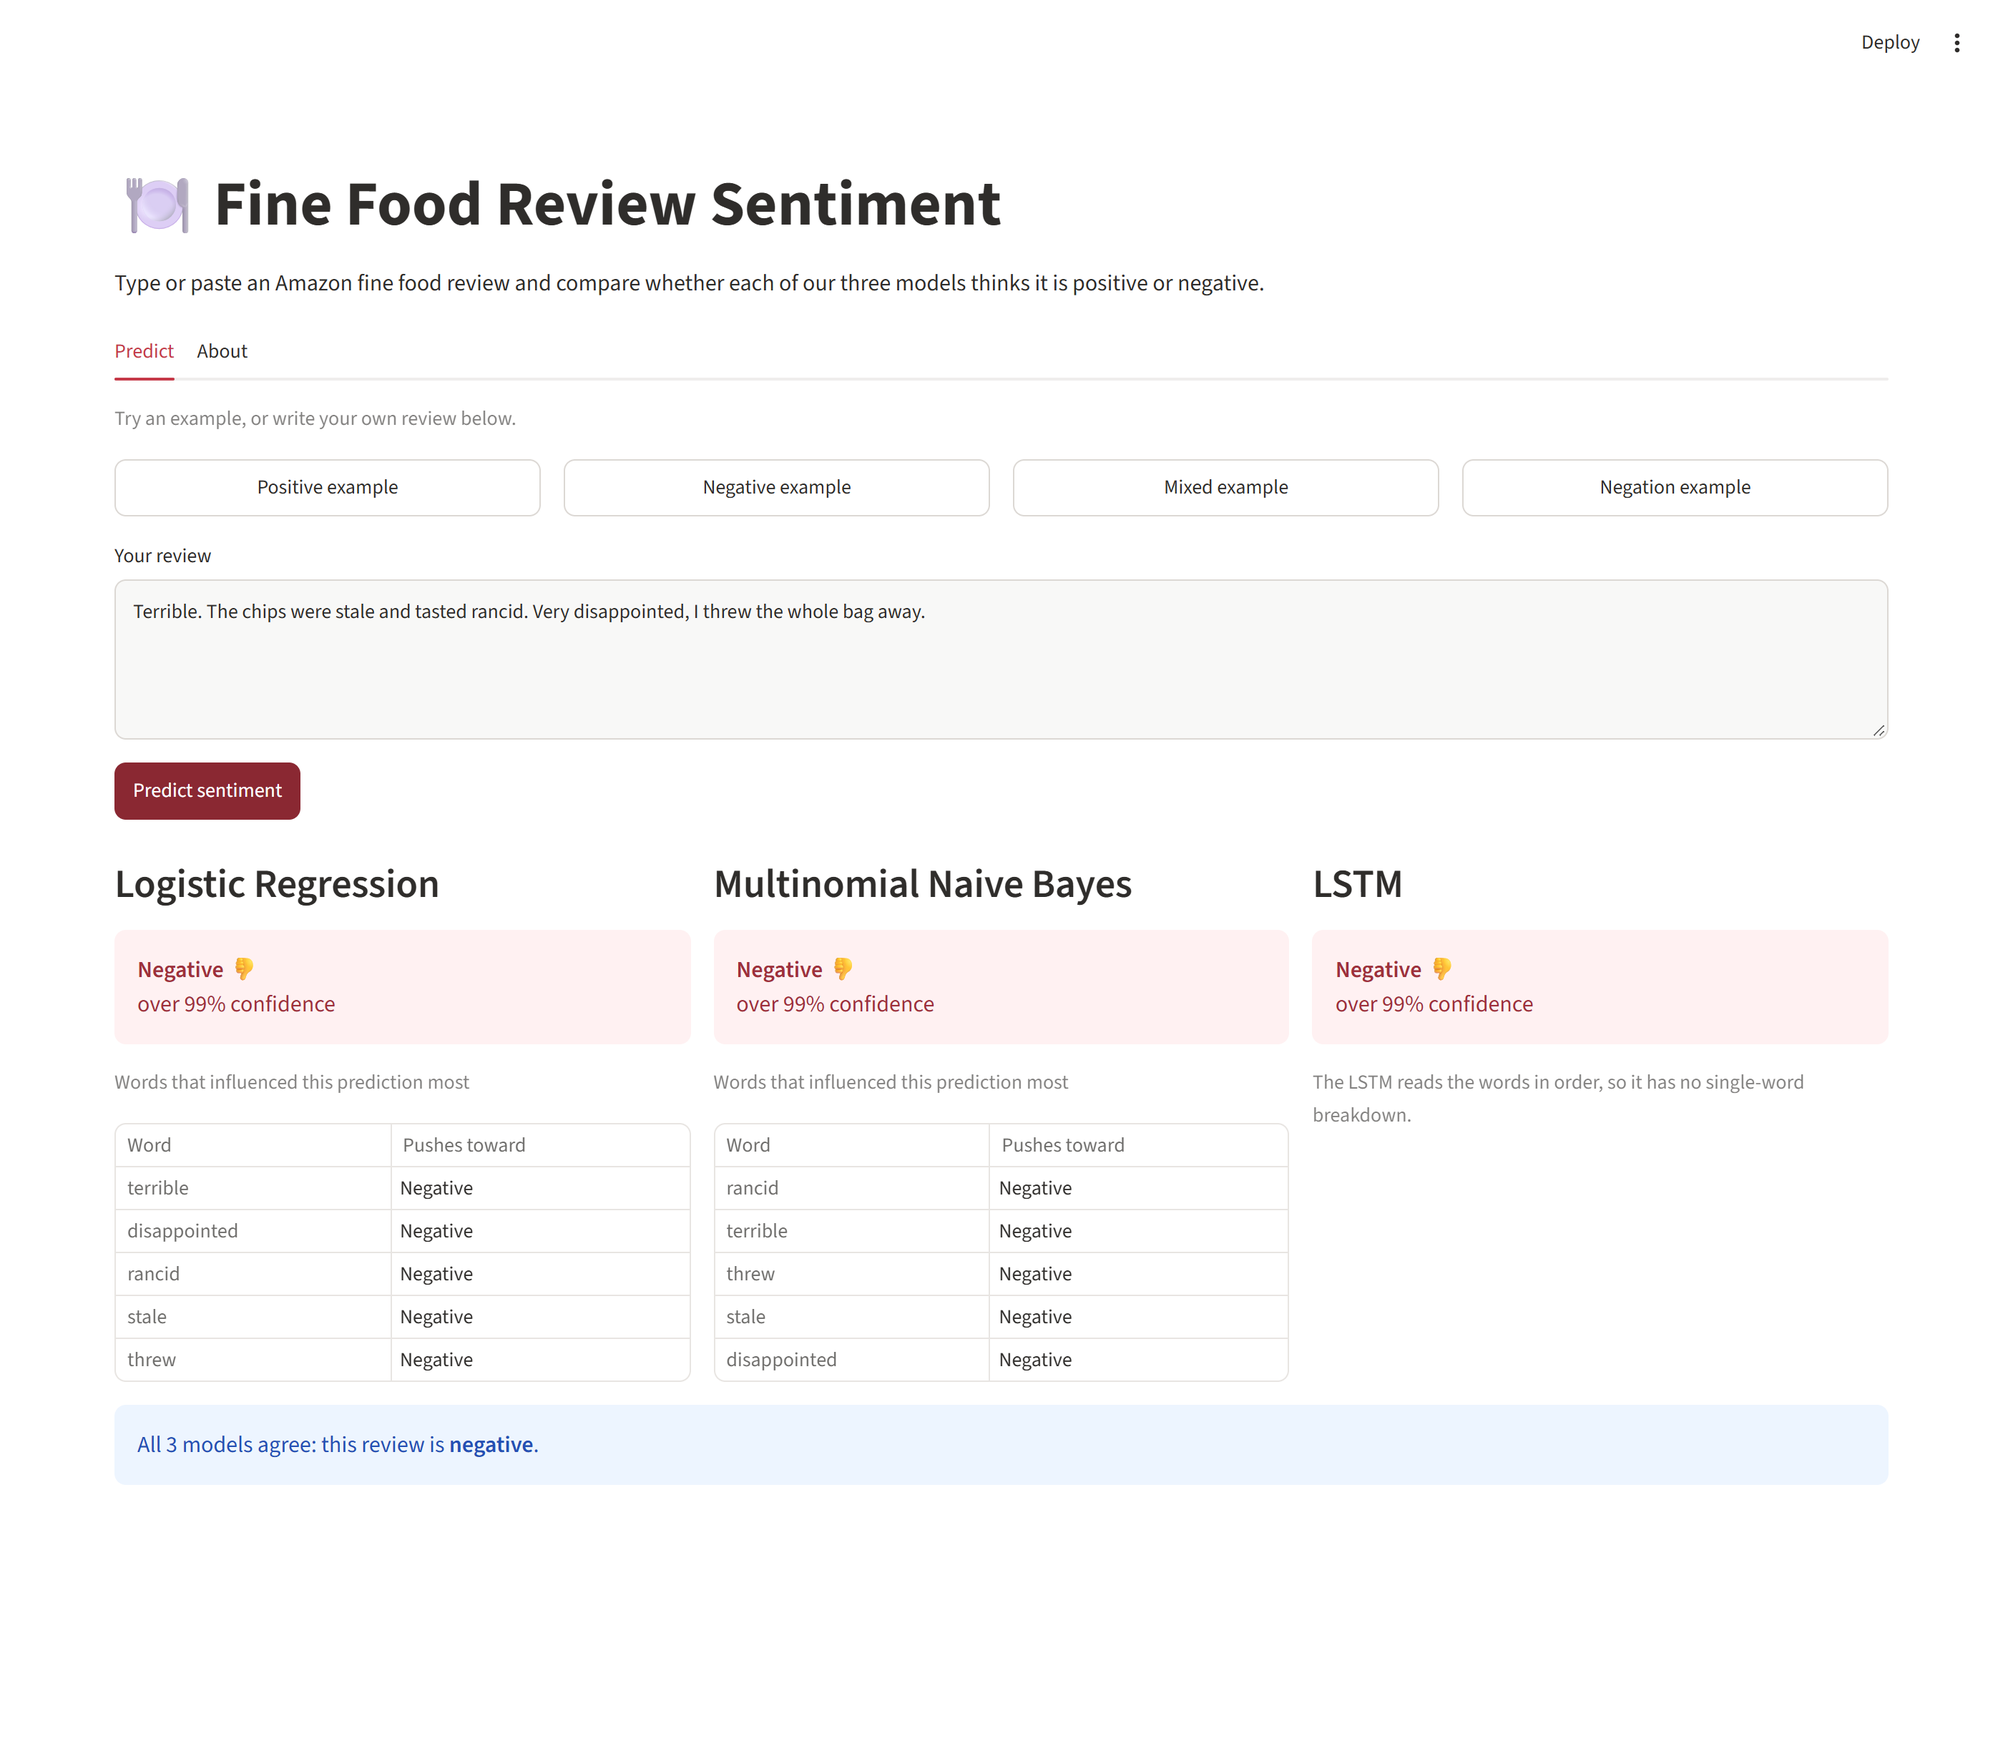
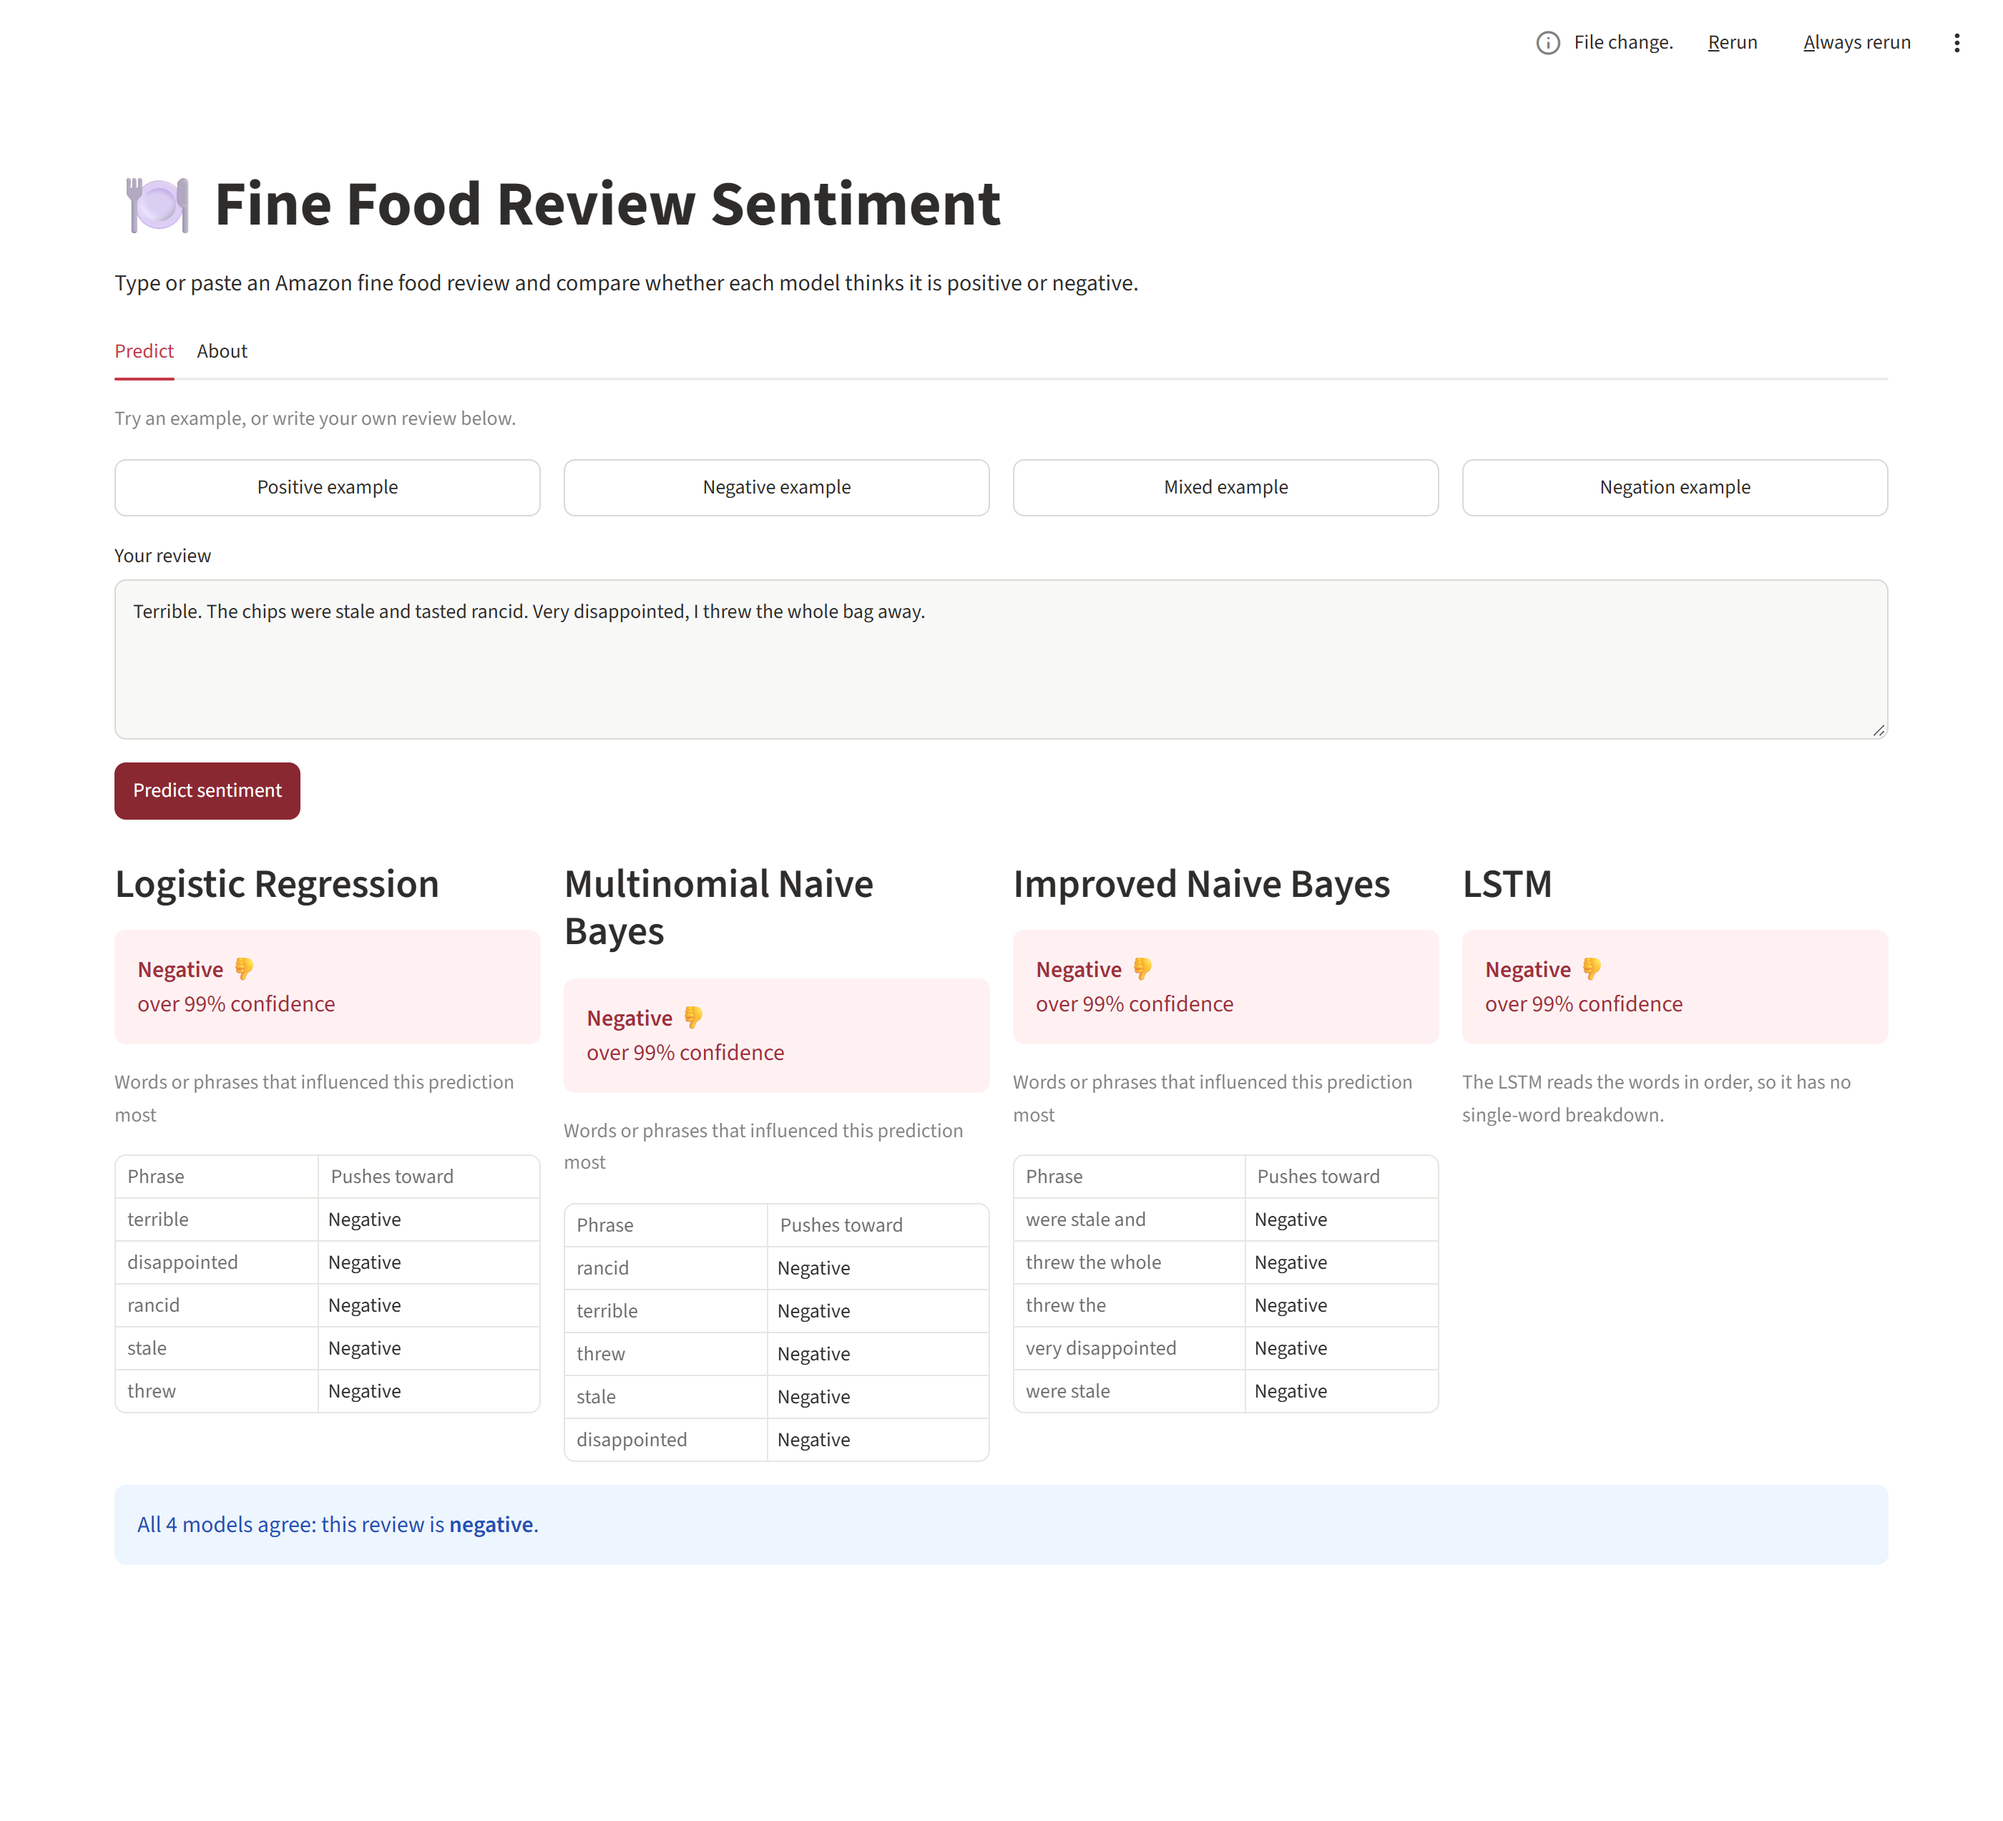
Update README screenshots and captions for four-model app

diff --git a/README.md b/README.md
@@ -127,13 +127,13 @@ This tab takes one review and shows each model's prediction side by side.
 3. Compare the columns: the label, the confidence, and the words behind each bag-of-words prediction.
 4. To try another review, change the text and click the button again.
 
-![A negative review with all three models predicting Negative](docs/screenshots/01_negative_prediction.png)
+![A negative review with all four models predicting Negative](docs/screenshots/01_negative_prediction.png)
 
-*A clearly negative review: all three models agree.*
+*A clearly negative review: all four models agree.*
 
-![The negation example, where Logistic Regression and Naive Bayes predict Positive and the LSTM predicts Negative](docs/screenshots/02_models_disagree.png)
+![The negation example, where Logistic Regression and Multinomial Naive Bayes predict Positive, and Improved Naive Bayes and the LSTM predict Negative](docs/screenshots/02_models_disagree.png)
 
-*The negation example: the bag-of-words models count "good", "great" and "fresh" as positive, while the LSTM, which reads word order, correctly predicts Negative.*
+*The negation example: Logistic Regression and Multinomial Naive Bayes count single words such as "good", "great" and "fresh" as positive. Improved Naive Bayes, which also reads phrases such as "not good" and "not fresh", and the LSTM, which reads word order, both correctly predict Negative.*
 
 If the box is empty or contains only spaces when the button is clicked, the app shows a "Please enter a review first." warning and makes no prediction.
 
@@ -149,6 +149,6 @@ This tab explains the project to a non-technical reader and summarizes the data 
 | **How the models performed** | The training, validation and test split sizes; a table of accuracy, precision, recall, F1 (macro averages) and training time for each model and the majority-class baseline; a confusion matrix per model; and the LSTM's training and validation loss curve |
 | **Limitations** | Where the models can go wrong |
 
-![The About tab with the data summary, models, results table, four confusion matrices and the LSTM loss curve](docs/screenshots/03_about.png)
+![The About tab with the data summary, models, results table, five confusion matrices and the LSTM loss curve](docs/screenshots/03_about.png)
 
 *The About tab.*
